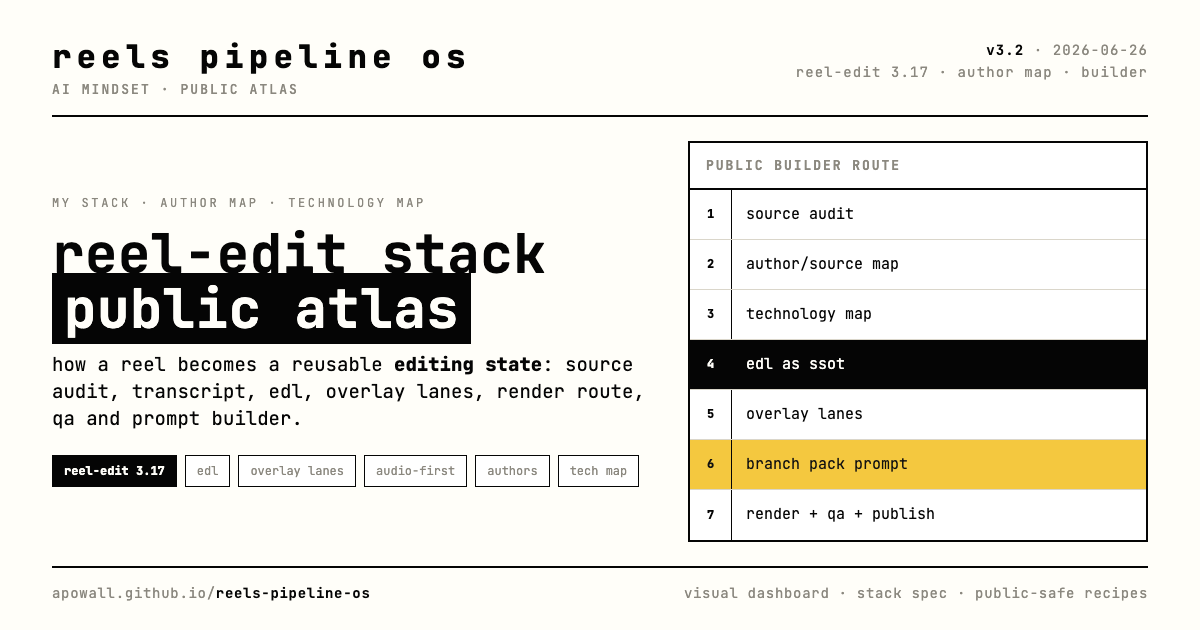
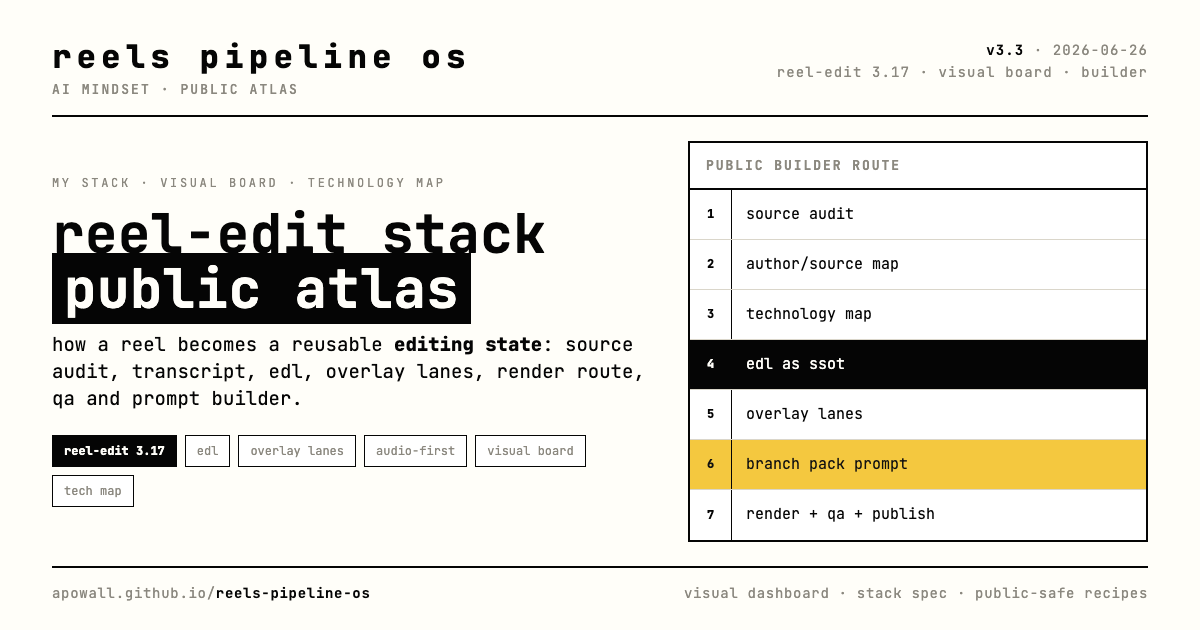
Add personal visual board layer

Changed region(s): [[0.0308, 0.2714, 0.5242, 0.7841], [0.6475, 0.0905, 0.8633, 0.1206]]

diff --git a/index.html b/index.html
@@ -4,11 +4,11 @@
 <meta charset="utf-8">
 <meta name="viewport" content="width=device-width, initial-scale=1.0">
 <title>AI Mindset Reels Pipeline OS - public atlas + builder</title>
-<meta name="description" content="Public atlas for AI Mindset reel-edit: how the stack works, author approaches, technology map, EDL as source of truth, overlay lanes, branch packs, QA and a prompt builder.">
+<meta name="description" content="Public atlas for AI Mindset reel-edit: how the stack works, personal visual board, author approaches, technology map, EDL as source of truth, overlay lanes, branch packs, QA and a prompt builder.">
 <meta property="og:type" content="website">
 <meta property="og:site_name" content="AI Mindset Reels Pipeline OS">
 <meta property="og:title" content="AI Mindset Reels Pipeline OS">
-<meta property="og:description" content="Public atlas of reel-edit: how the stack works, author approaches, technology map, timeline state, branch packs and prompt builder.">
+<meta property="og:description" content="Public atlas of reel-edit: personal visual board, author approaches, technology map, timeline state, branch packs and prompt builder.">
 <meta property="og:image" content="https://apowall.github.io/reels-pipeline-os/assets/og-cover.png">
 <meta property="og:image:width" content="1200">
 <meta property="og:image:height" content="630">
@@ -409,9 +409,9 @@
 
   <header class="app">
     <div class="brand"><img class="lt" src="assets/aim-logo-light.png" alt="ai mindset"><img class="dk" src="assets/aim-logo.png" alt="ai mindset">reels pipeline os <span class="bsub">· ai mindset</span></div>
-    <div class="crumb"><b>public atlas</b> как работает reel-edit · подходы авторов · technology map · stack builder</div>
+    <div class="crumb"><b>public atlas</b> как работает reel-edit · personal style board · подходы авторов · stack builder</div>
     <div class="meta">
-      <b>v3.2</b> · 2026-06-26 · public<br>
+      <b>v3.3</b> · 2026-06-26 · public<br>
       <a href="https://github.com/aPoWall/reels-pipeline-os">github · repo</a> · <a href="https://apowall.github.io/reels-pipeline-os/">pages</a><br>
       <button class="tbtn" onclick="document.documentElement.classList.toggle('dark')">◐ тема</button>
     </div>
@@ -419,7 +419,7 @@
 
   <div class="thesis">
     <div class="tag">тезис</div>
-    <p><b>reels pipeline os</b> показывает публичную механику короткого монтажа: запись проходит source audit, transcript, source blocks, EDL, overlay lanes, render route и QA. в центре стоит <b>мой reel-edit 3.17</b>, вокруг него разложены подходы авторов, открытые технологии и простой builder, который собирает branch pack и готовый prompt для агента.</p>
+    <p><b>reels pipeline os</b> показывает публичную механику короткого монтажа: запись проходит source audit, transcript, source blocks, EDL, overlay lanes, render route и QA. в центре стоит <b>мой reel-edit 3.17</b>, перед ним лежит <b>personal visual board</b>, вокруг него разложены подходы авторов, открытые технологии и builder, который собирает branch pack и готовый prompt для агента.</p>
   </div>
 
   <div class="ctas">
@@ -431,6 +431,7 @@
   <nav class="tabs" role="tablist">
     <button role="tab" aria-selected="true" onclick="tab('map',this)">карта</button>
     <button role="tab" aria-selected="false" onclick="tab('skill',this)">мой стек</button>
+    <button role="tab" aria-selected="false" onclick="tab('style',this)">визуал</button>
     <button role="tab" aria-selected="false" onclick="tab('approaches',this)">авторы</button>
     <button role="tab" aria-selected="false" onclick="tab('tech',this)">технологии</button>
     <button role="tab" aria-selected="false" onclick="tab('config',this)">собрать</button>
@@ -586,6 +587,41 @@
       <div class="lname">collab interruption</div><div class="ldesc">interruptions and handoffs как сюжетные beat-ы. turn_map и collabBeats[] обязательны.</div>
       <div class="lname">cover set</div><div class="ldesc">10 cover options: identity references + motif object + clean no-text bases + Pillow caption layer.</div>
     </div>
+  </section>
+
+  <section class="panel" id="style">
+    <h2 class="sec">личный visual board - слой перед pipeline</h2>
+    <p class="lead">главный вывод из публичного atlas: <b>личный reel-stack начинается с visual board</b>. pipeline режет, хранит EDL и рендерит, но для @_inside_insanity сначала выбираются референсы, тон, эстетика, caption grammar и мотив дня.</p>
+
+    <div class="stackLayers">
+      <div class="layerName">reference intake</div><div class="layerBody">фото дня, screenshots, raw videos, внешние refs, телесный объект, mood phrase. Это вход для вкуса, еще не монтажный config.</div>
+      <div class="layerName">style bible</div><div class="layerBody">личная aesthetic DNA: свет, texture, palette, typography, materiality, recurring clusters and reference artists.</div>
+      <div class="layerName">inside-insanity board</div><div class="layerBody">account-level decisions: Lisbon raw-iPhone x Fuji, shaper/noir, color-return, kitchen OS, mono plashka, lowercase caption grammar.</div>
+      <div class="layerName">reel-edit pipeline</div><div class="layerBody">mode, audio spine, source audit, transcript, EDL, overlay lanes, render outputs and QA.</div>
+      <div class="layerName">public package</div><div class="layerBody">sanitized mechanics only: no raw media, private transcript text, handles, local paths or private source names.</div>
+    </div>
+
+    <h2 class="sec">как это ложится на один рилс</h2>
+    <div class="techGrid">
+      <article class="techCard core"><h3>visual premise</h3><b>что сегодня увиделось</b><p>один объект, состояние или reference: лампа, кухня, balcony, terminal-face, цвет возвращается, system fatigue.</p></article>
+      <article class="techCard"><h3>tone</h3><b>как это звучит</b><p>lowercase, dry, personal, sometimes profane in raw audio, screen copy softened and viewer-facing.</p></article>
+      <article class="techCard"><h3>aesthetic</h3><b>как это выглядит</b><p>raw iPhone/Fuji, moody dark account, mono plashka, thin frame, gold semantic chips, natural image alive.</p></article>
+      <article class="techCard"><h3>pipeline</h3><b>как это собирается</b><p>source audit, transcript, word-safe cuts, branch matrix, EDL, overlay lanes, text-free base, review MP4.</p></article>
+      <article class="techCard"><h3>feedback</h3><b>как стиль учится</b><p>Trial Reels, contact sheet, survivor/failure pair, skill patch note, updated visual board.</p></article>
+      <article class="techCard"><h3>public artifact</h3><b>как это отдать наружу</b><p>объяснить mechanics and stack without private media, real names, transcripts or local project state.</p></article>
+    </div>
+
+    <h2 class="sec">что это меняет в skills</h2>
+    <table class="cmp">
+      <thead><tr><th>skill</th><th>роль</th><th>обновление</th></tr></thead>
+      <tbody>
+        <tr><td class="l">style-bible</td><td>хранит внешний и личный вкус</td><td>пополнять refs, clusters, palette, light and texture language.</td></tr>
+        <tr><td class="l">visual-pipeline</td><td>превращает refs в Design DNA</td><td>давать brief/code для визуального борда, covers and page artifacts.</td></tr>
+        <tr><td class="l">inside-insanity</td><td>решает account voice and look</td><td>добавить visual board contract перед reel-edit route.</td></tr>
+        <tr><td class="l">reel-edit</td><td>исполняет render-grade spine</td><td>принимать `visualPipeline` metadata in EDL and keep style decisions data-driven.</td></tr>
+        <tr><td class="l">stack-compare</td><td>упаковывает публичную механику</td><td>показывать only sanitized stack, sources, builder prompt and branch recipes.</td></tr>
+      </tbody>
+    </table>
   </section>
 
   <section class="panel" id="approaches">
@@ -799,7 +835,7 @@
 
   <footer class="stamp">
     <div><b>fig.1</b> · reels-pipeline-os · visual atlas · 2026-06-26</div>
-    <div>shortcuts: <span class="kbd">1</span> map · <span class="kbd">2</span> skill · <span class="kbd">3</span> authors · <span class="kbd">4</span> tech · <span class="kbd">5</span> builder · <span class="kbd">d</span> theme</div>
+    <div>shortcuts: <span class="kbd">1</span> map · <span class="kbd">2</span> skill · <span class="kbd">3</span> visual · <span class="kbd">4</span> authors · <span class="kbd">5</span> tech · <span class="kbd">6</span> builder · <span class="kbd">d</span> theme</div>
   </footer>
 </div>
 
@@ -968,12 +1004,12 @@ Return:
     window.scrollTo({top:0,behavior:"smooth"});
   }
   function openTab(id){
-    const order = ["map","skill","approaches","tech","config","branches","sources"];
+    const order = ["map","skill","style","approaches","tech","config","branches","sources"];
     const btn = document.querySelectorAll("nav.tabs button")[order.indexOf(id)];
     if(btn) tab(id, btn);
   }
   document.addEventListener("keydown",e=>{
-    const map = {"1":"map","2":"skill","3":"approaches","4":"tech","5":"config","6":"branches","7":"sources"};
+    const map = {"1":"map","2":"skill","3":"style","4":"approaches","5":"tech","6":"config","7":"branches","8":"sources"};
     if(map[e.key]) openTab(map[e.key]);
     if(e.key === "d") document.documentElement.classList.toggle("dark");
   });

diff --git a/assets/og-cover.src.html b/assets/og-cover.src.html
@@ -36,11 +36,11 @@
 <body>
   <header>
     <div class="brand">reels pipeline os<span>ai mindset · public atlas</span></div>
-    <div class="meta"><b>v3.2</b> · 2026-06-26<br>reel-edit 3.17 · author map · builder</div>
+    <div class="meta"><b>v3.3</b> · 2026-06-26<br>reel-edit 3.17 · visual board · builder</div>
   </header>
   <main>
     <section>
-      <div class="eyebrow">my stack · author map · technology map</div>
+      <div class="eyebrow">my stack · visual board · technology map</div>
       <h1>reel-edit stack<br><span>public atlas</span></h1>
       <div class="sub">how a reel becomes a reusable <b>editing state</b>: source audit, transcript, EDL, overlay lanes, render route, QA and prompt builder.</div>
       <div class="tags">
@@ -48,7 +48,7 @@
         <span class="tag">EDL</span>
         <span class="tag">overlay lanes</span>
         <span class="tag">audio-first</span>
-        <span class="tag">authors</span>
+        <span class="tag">visual board</span>
         <span class="tag">tech map</span>
       </div>
     </section>

diff --git a/PERSONAL-LAYER.md b/PERSONAL-LAYER.md
@@ -1,0 +1,91 @@
+# Personal Reels Layer
+
+> Public-safe analysis of the personal layer behind AI Mindset `reel-edit`.
+
+The public atlas revealed a missing distinction:
+
+```text
+visual references -> personal visual board -> reel-edit pipeline -> public branch pack
+```
+
+`reel-edit` should keep owning the render-grade spine: source audit, transcript,
+word-safe cuts, EDL, overlay lanes, render outputs and QA.
+
+The personal account needs an upstream board before that spine:
+
+| layer | role |
+|-------|------|
+| `style-bible` | stores personal taste: references, light, texture, color, typography, recurring clusters |
+| `visual-pipeline` | turns references into Design DNA, Design Code and briefs |
+| `inside-insanity` | selects the account voice, visual mode, motif, caption grammar and survivor preset |
+| `reel-edit` | renders and stores the edit state as EDL plus review/final outputs |
+| `stack-compare` | packages only public-safe mechanics, source links and branch prompts |
+
+## What Changed
+
+Before this pass, the public dashboard explained the montage stack but treated
+visual style as one more config field. For Alex's personal reels, style is a
+separate upstream decision. The editor needs to know the account's current visual
+state before choosing overlays.
+
+The practical sequence becomes:
+
+1. collect visual references from the day: photo, object, screenshot, raw clip,
+   external reference, mood phrase;
+2. map them into personal aesthetic DNA: light, texture, palette, typography,
+   materiality and energy;
+3. choose an `inside-insanity` visual mode: `shaper_color_return`,
+   `kitchen_operating_system`, `dual_persona_no_overlap`,
+   `collab_interruption_spine`, `cover_set` or a new candidate;
+4. pass that board into `reel-edit` as metadata;
+5. render branch variants from the same EDL;
+6. update the visual board when a branch survives review.
+
+## EDL Metadata Contract
+
+Personal branches can carry this public-safe shape:
+
+```json
+{
+  "visualPipeline": {
+    "account": "_inside_insanity",
+    "styleBoard": "inside-insanity",
+    "visualMode": "shaper_color_return",
+    "tone": "dry personal lower-case",
+    "captionGrammar": "viewer-facing, sparse, no hashtags",
+    "motifObject": "lamp | kitchen object | terminal-face | balcony",
+    "survivorPreset": "color_return | kitchen_os | dual_persona",
+    "publicSummary": "generic visual mechanics only"
+  }
+}
+```
+
+Private fields stay out of public branches: raw footage, transcript text, handles,
+local paths, real filenames, private screenshots and provider keys.
+
+## Skill Update Recommendation
+
+Update `inside-insanity` with a visual-board contract:
+
+- read Style Bible / visual DNA before routing to `reel-edit`;
+- decide visual premise, tone, aesthetic mode and motif;
+- pass `visualPipeline` metadata to the EDL;
+- write survivor/failure notes back into the board.
+
+Update `reel-edit` with a personal-board input contract:
+
+- if `inside-insanity` is active, treat its style board as the visual source of truth;
+- do not collapse personal taste into a generic `--style` flag;
+- keep the rendered branch rebuildable: EDL, overlay tracks, text-free base, QA.
+
+## Public Artifact Rule
+
+The public page should show the mechanics:
+
+- author/source map;
+- technology map;
+- personal visual-board layer;
+- branch builder prompt.
+
+It should not expose private day notes, raw media, transcripts or unpublished
+account strategy.

diff --git a/STACK.md b/STACK.md
@@ -20,6 +20,15 @@ source audit -> ingest/color -> transcript/timing -> source blocks -> EDL state 
 
 The MP4 is an output. The durable artifact is the recipe: source blocks, cut map, overlay tracks, QA decisions and branch status.
 
+For Alex's personal account, one layer sits before the editing contract:
+
+```text
+visual references -> personal visual board -> editing contract -> render state
+```
+
+See [PERSONAL-LAYER.md](PERSONAL-LAYER.md) for the public-safe analysis of that
+upstream visual-board layer.
+
 ## 2. Decision Order
 
 ### 2.1 Source

diff --git a/README.md b/README.md
@@ -15,6 +15,7 @@ It is built from our real Codex/Claude Code reel sessions, the `reel-edit` skill
 |------|------|
 | **[index.html](index.html)** | public atlas, author map, technology map and live stack builder |
 | **[STACK.md](STACK.md)** | stack spec: packs, contracts, EDL schema, QA gates, source research, agent prompt |
+| **[PERSONAL-LAYER.md](PERSONAL-LAYER.md)** | public-safe analysis of the personal visual-board layer before `reel-edit` |
 | **[CONTRIBUTING.md](CONTRIBUTING.md)** | how to contribute a branch without leaking private data |
 | **[branches/](branches/)** | public-safe branch recipes and sample EDLs |
 
@@ -25,9 +26,10 @@ The current version leads with the **public montage atlas**:
 1. see how different editing approaches become one `editing state`;
 2. inspect how Alex's `reel-edit 3.17` skill is configured now;
 3. review the author/source map: Dasha/Voronik, X-Cut, OpenScript, HyperFrames, ReelStack, OpenReels, OpenCut;
-4. inspect the technology map: ffmpeg, ffprobe, avconvert, Whisper/Scribe, Pillow, OTIO, Remotion, HyperFrames, WebCodecs, MCP;
-5. choose `source`, `goal` and `mode` in the builder;
-6. copy the generated JSON config and agent prompt.
+4. inspect the personal layer: Style Bible → inside-insanity visual board → `reel-edit`;
+5. inspect the technology map: ffmpeg, ffprobe, avconvert, Whisper/Scribe, Pillow, OTIO, Remotion, HyperFrames, WebCodecs, MCP;
+6. choose `source`, `goal` and `mode` in the builder;
+7. copy the generated JSON config and agent prompt.
 
 ## Branch Packs
 